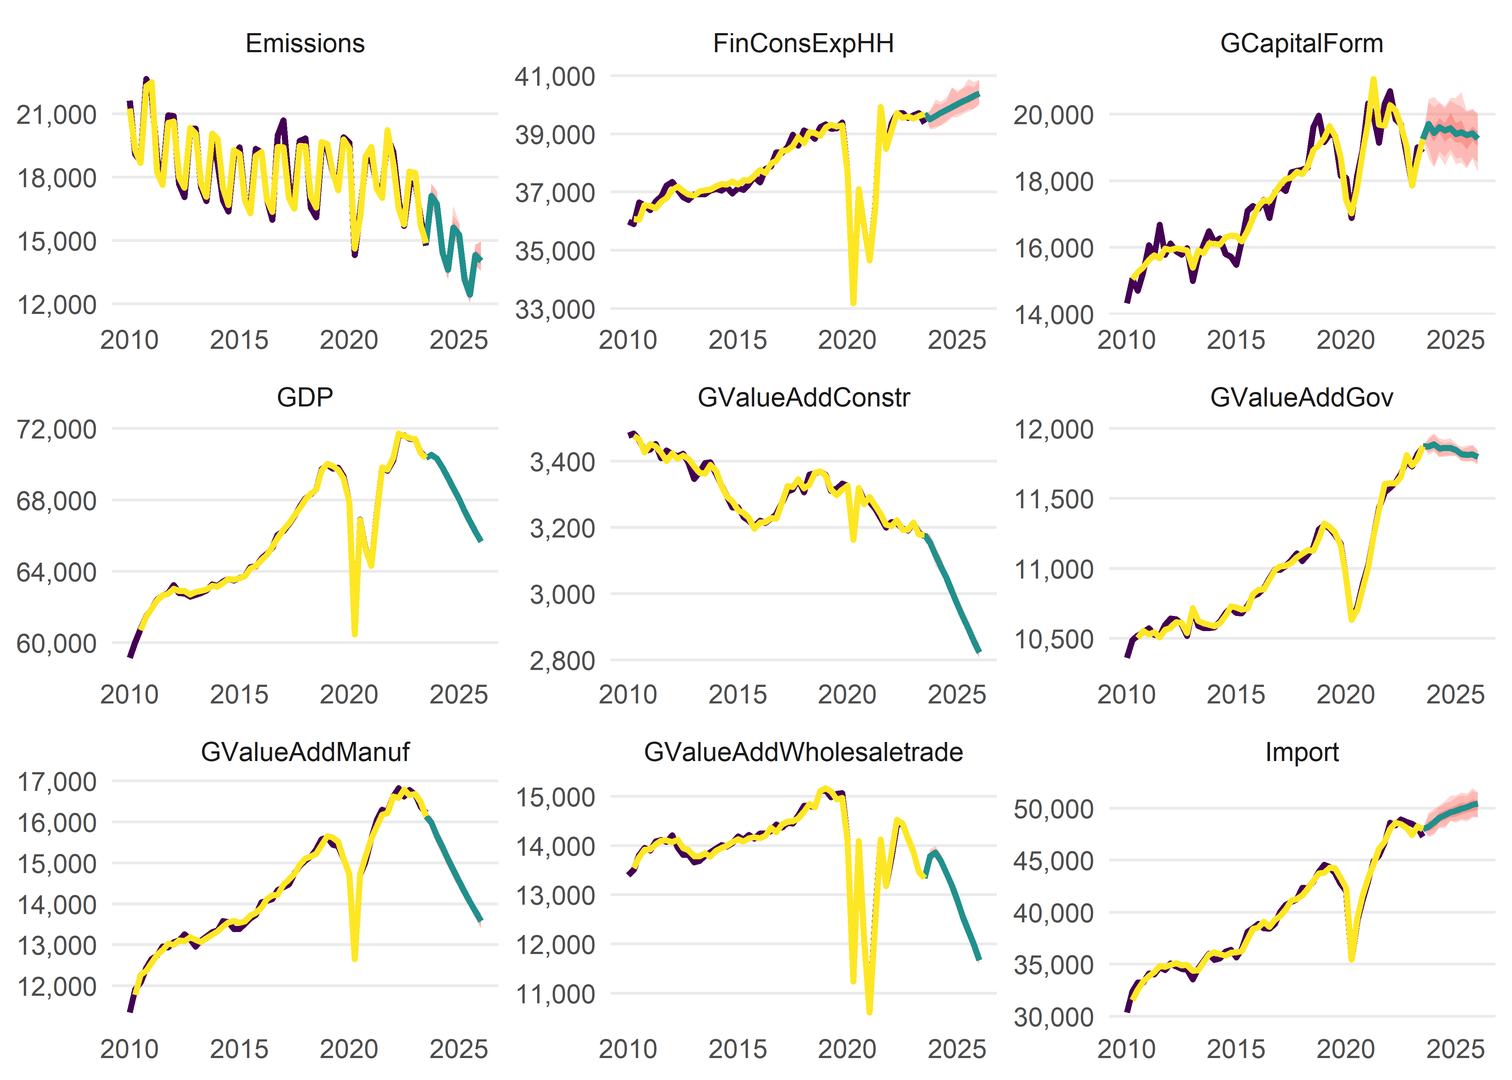
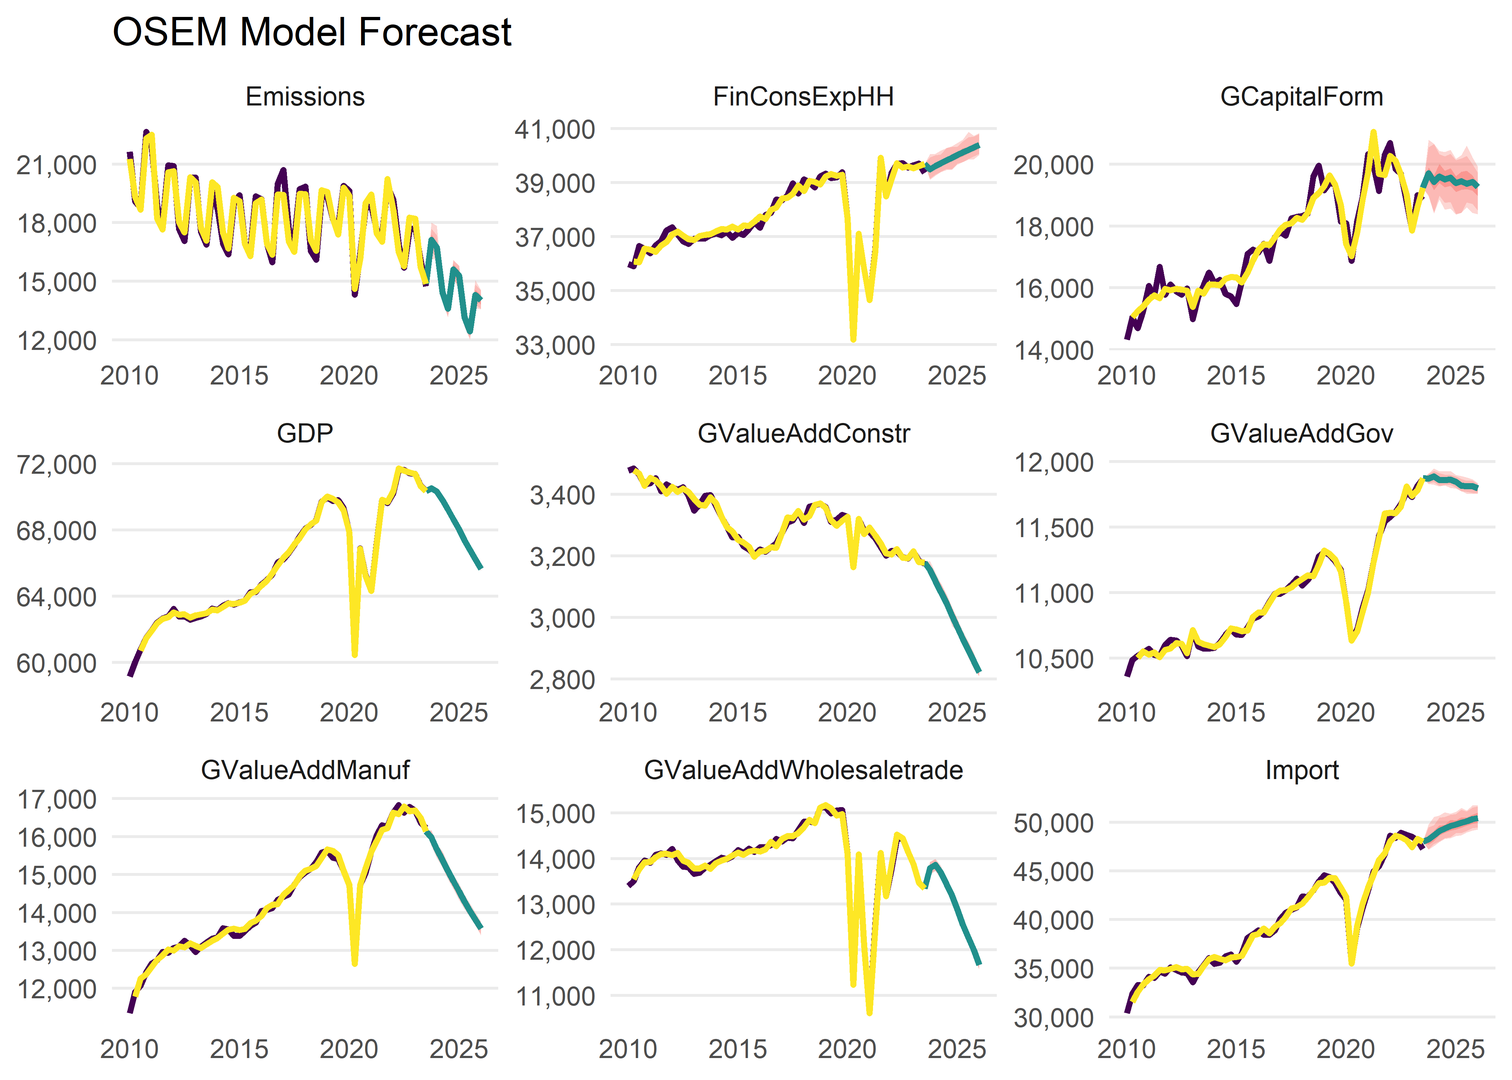
Consequences of major change (tests and vignettes)

diff --git a/README.md b/README.md
@@ -552,18 +552,24 @@ model_result <- run_model(
   save_to_disk = "inst/extdata/InputData.xlsx",
   primary_source = "download",
   trend = TRUE,
-  saturation.tpval = 0.01
+  saturation.tpval = 0.01,
+  plot = FALSE
 )
-#> indexed 0B in  0s, 0B/sindexed 23.07MB in  0s, 115.12MB/sindexed 23.20MB in  0s, 114.89MB/sindexed 23.33MB in  0s, 114.73MB/sindexed 23.46MB in  0s, 114.76MB/sindexed 23.59MB in  0s, 114.70MB/sindexed 23.72MB in  0s, 114.74MB/sindexed 23.85MB in  0s, 114.62MB/sindexed 23.99MB in  0s, 114.64MB/sindexed 24.12MB in  0s, 114.68MB/sindexed 24.25MB in  0s, 114.79MB/sindexed 24.38MB in  0s, 114.71MB/sindexed 24.51MB in  0s, 114.58MB/sindexed 24.64MB in  0s, 114.58MB/sindexed 24.77MB in  0s, 114.59MB/sindexed 24.90MB in  0s, 114.49MB/sindexed 25.03MB in  0s, 113.89MB/sindexed 25.17MB in  0s, 113.84MB/sindexed 25.30MB in  0s, 113.71MB/sindexed 25.43MB in  0s, 113.56MB/sindexed 25.56MB in  0s, 113.48MB/sindexed 25.69MB in  0s, 113.36MB/sindexed 25.82MB in  0s, 113.26MB/sindexed 25.95MB in  0s, 113.13MB/sindexed 26.08MB in  0s, 112.99MB/sindexed 26.21MB in  0s, 112.82MB/sindexed 26.35MB in  0s, 112.70MB/sindexed 26.48MB in  0s, 112.36MB/sindexed 26.61MB in  0s, 108.20MB/sindexed 26.74MB in  0s, 108.09MB/sindexed 26.87MB in  0s, 108.04MB/sindexed 27.00MB in  0s, 107.90MB/sindexed 27.13MB in  0s, 107.45MB/sindexed 27.26MB in  0s, 107.27MB/sindexed 27.39MB in  0s, 107.16MB/sindexed 27.52MB in  0s, 107.12MB/sindexed 27.66MB in  0s, 107.07MB/sindexed 27.79MB in  0s, 107.02MB/sindexed 27.92MB in  0s, 106.98MB/sindexed 28.05MB in  0s, 106.91MB/sindexed 28.18MB in  0s, 106.86MB/sindexed 28.31MB in  0s, 106.84MB/sindexed 28.44MB in  0s, 106.80MB/sindexed 28.57MB in  0s, 106.71MB/sindexed 28.70MB in  0s, 106.49MB/sindexed 28.84MB in  0s, 106.41MB/sindexed 28.97MB in  0s, 106.32MB/sindexed 29.10MB in  0s, 106.29MB/sindexed 29.23MB in  0s, 106.24MB/sindexed 29.36MB in  0s, 106.20MB/sindexed 29.49MB in  0s, 106.16MB/sindexed 29.62MB in  0s, 106.03MB/sindexed 29.75MB in  0s, 106.08MB/sindexed 29.88MB in  0s, 106.00MB/sindexed 30.02MB in  0s, 105.92MB/sindexed 30.15MB in  0s, 105.74MB/sindexed 30.28MB in  0s, 105.57MB/sindexed 30.41MB in  0s, 105.51MB/sindexed 30.54MB in  0s, 105.49MB/sindexed 30.67MB in  0s, 105.41MB/sindexed 30.80MB in  0s, 105.44MB/sindexed 30.93MB in  0s, 105.34MB/sindexed 31.06MB in  0s, 105.32MB/sindexed 31.19MB in  0s, 105.31MB/sindexed 31.33MB in  0s, 105.30MB/sindexed 31.46MB in  0s, 105.25MB/sindexed 31.59MB in  0s, 105.25MB/sindexed 31.72MB in  0s, 105.25MB/sindexed 31.85MB in  0s, 105.06MB/sindexed 31.98MB in  0s, 105.07MB/sindexed 32.11MB in  0s, 105.08MB/sindexed 32.24MB in  0s, 105.08MB/sindexed 32.37MB in  0s, 105.10MB/sindexed 32.51MB in  0s, 105.09MB/sindexed 32.64MB in  0s, 105.08MB/sindexed 32.77MB in  0s, 105.10MB/sindexed 32.90MB in  0s, 105.10MB/sindexed 33.03MB in  0s, 105.14MB/sindexed 33.16MB in  0s, 105.05MB/sindexed 33.29MB in  0s, 105.01MB/sindexed 33.42MB in  0s, 104.97MB/sindexed 33.55MB in  0s, 104.89MB/sindexed 33.69MB in  0s, 104.89MB/sindexed 33.82MB in  0s, 104.87MB/sindexed 33.95MB in  0s, 104.88MB/sindexed 34.08MB in  0s, 104.88MB/sindexed 34.21MB in  0s, 104.90MB/sindexed 34.34MB in  0s, 104.90MB/sindexed 34.47MB in  0s, 104.89MB/sindexed 34.60MB in  0s, 104.85MB/sindexed 34.73MB in  0s, 104.85MB/sindexed 34.86MB in  0s, 104.87MB/sindexed 35.00MB in  0s, 104.82MB/sindexed 35.13MB in  0s, 104.74MB/sindexed 35.26MB in  0s, 104.66MB/sindexed 35.39MB in  0s, 104.64MB/sindexed 35.52MB in  0s, 104.65MB/sindexed 35.65MB in  0s, 104.67MB/sindexed 35.78MB in  0s, 104.69MB/sindexed 35.91MB in  0s, 104.71MB/sindexed 36.04MB in  0s, 104.67MB/sindexed 36.18MB in  0s, 104.68MB/sindexed 36.31MB in  0s, 104.68MB/sindexed 36.44MB in  0s, 104.71MB/sindexed 36.57MB in  0s, 104.74MB/sindexed 36.70MB in  0s, 104.77MB/sindexed 36.83MB in  0s, 104.64MB/sindexed 36.96MB in  0s, 104.56MB/sindexed 37.09MB in  0s, 104.56MB/sindexed 37.22MB in  0s, 104.60MB/sindexed 37.36MB in  0s, 104.58MB/sindexed 37.49MB in  0s, 104.56MB/sindexed 37.62MB in  0s, 104.55MB/sindexed 37.75MB in  0s, 104.54MB/sindexed 37.88MB in  0s, 104.55MB/sindexed 38.01MB in  0s, 104.57MB/sindexed 38.14MB in  0s, 104.58MB/sindexed 38.27MB in  0s, 104.60MB/sindexed 38.40MB in  0s, 104.64MB/sindexed 38.53MB in  0s, 104.60MB/sindexed 38.67MB in  0s, 104.41MB/sindexed 38.80MB in  0s, 104.45MB/sindexed 38.93MB in  0s, 104.41MB/sindexed 39.06MB in  0s, 104.43MB/sindexed 39.19MB in  0s, 104.50MB/sindexed 39.32MB in  0s, 104.56MB/sindexed 39.45MB in  0s, 104.40MB/sindexed 39.58MB in  0s, 104.33MB/sindexed 39.71MB in  0s, 104.35MB/sindexed 39.85MB in  0s, 104.37MB/sindexed 39.98MB in  0s, 104.34MB/sindexed 40.11MB in  0s, 104.27MB/sindexed 40.24MB in  0s, 104.21MB/sindexed 40.37MB in  0s, 104.20MB/sindexed 40.50MB in  0s, 104.20MB/sindexed 40.63MB in  0s, 104.17MB/sindexed 40.76MB in  0s, 104.17MB/sindexed 40.89MB in  0s, 104.15MB/sindexed 41.03MB in  0s, 104.15MB/sindexed 41.16MB in  0s, 104.15MB/sindexed 41.29MB in  0s, 104.17MB/sindexed 41.42MB in  0s, 104.20MB/sindexed 41.55MB in  0s, 104.19MB/sindexed 41.68MB in  0s, 104.21MB/sindexed 41.81MB in  0s, 104.20MB/sindexed 41.94MB in  0s, 104.18MB/sindexed 42.07MB in  0s, 104.11MB/sindexed 42.20MB in  0s, 104.09MB/sindexed 42.34MB in  0s, 104.07MB/sindexed 42.47MB in  0s, 103.98MB/sindexed 42.60MB in  0s, 103.97MB/sindexed 42.73MB in  0s, 103.98MB/sindexed 42.86MB in  0s, 103.97MB/sindexed 42.99MB in  0s, 103.98MB/sindexed 43.12MB in  0s, 104.00MB/sindexed 43.25MB in  0s, 104.03MB/sindexed 43.38MB in  0s, 104.02MB/sindexed 43.52MB in  0s, 103.96MB/sindexed 43.65MB in  0s, 103.92MB/sindexed 43.78MB in  0s, 103.90MB/sindexed 43.91MB in  0s, 103.89MB/sindexed 44.04MB in  0s, 103.91MB/sindexed 44.17MB in  0s, 103.90MB/sindexed 44.30MB in  0s, 103.89MB/sindexed 44.43MB in  0s, 103.89MB/sindexed 44.56MB in  0s, 101.26MB/sindexed 44.70MB in  0s, 101.27MB/sindexed 44.83MB in  0s, 101.27MB/sindexed 44.96MB in  0s, 101.31MB/sindexed 45.09MB in  0s, 101.34MB/sindexed 45.22MB in  0s, 101.37MB/sindexed 45.35MB in  0s, 101.37MB/sindexed 45.48MB in  0s, 101.40MB/sindexed 45.61MB in  0s, 101.43MB/sindexed 45.74MB in  0s, 101.43MB/sindexed 45.87MB in  0s, 101.41MB/sindexed 46.01MB in  0s, 101.39MB/sindexed 46.14MB in  0s, 101.33MB/sindexed 46.27MB in  0s, 101.31MB/sindexed 46.40MB in  0s, 101.23MB/sindexed 46.53MB in  0s, 101.23MB/sindexed 46.66MB in  0s, 101.24MB/sindexed 46.79MB in  0s, 101.22MB/sindexed 46.92MB in  0s, 101.24MB/sindexed 47.05MB in  0s, 101.25MB/sindexed 47.19MB in  0s, 101.17MB/sindexed 47.32MB in  0s, 101.16MB/sindexed 47.45MB in  0s, 101.12MB/sindexed 47.58MB in  0s, 101.03MB/sindexed 47.71MB in  0s, 101.05MB/sindexed 47.84MB in  0s, 101.08MB/sindexed 47.97MB in  0s, 101.09MB/sindexed 48.10MB in  0s, 101.10MB/sindexed 48.23MB in  0s, 101.11MB/sindexed 48.37MB in  0s, 101.13MB/sindexed 48.50MB in  0s, 101.14MB/sindexed 48.63MB in  0s, 101.16MB/sindexed 48.76MB in  0s, 101.18MB/sindexed 48.89MB in  0s, 101.21MB/sindexed 49.02MB in  0s, 101.19MB/sindexed 49.15MB in  0s, 101.14MB/sindexed 49.28MB in  0s, 101.10MB/sindexed 49.41MB in  0s, 101.02MB/sindexed 49.54MB in  0s, 100.99MB/sindexed 49.68MB in  0s, 101.00MB/sindexed 49.81MB in  0s, 101.00MB/sindexed 49.94MB in  0s, 100.97MB/sindexed 50.07MB in  0s, 100.95MB/sindexed 50.20MB in  0s, 100.94MB/sindexed 50.33MB in  0s, 100.91MB/sindexed 50.46MB in  1s, 100.90MB/sindexed 50.59MB in  1s, 100.83MB/sindexed 50.72MB in  1s, 100.79MB/sindexed 50.86MB in  1s, 100.76MB/sindexed 50.99MB in  1s, 100.78MB/s                                                                              indexed 51.12MB in  1s, 97.02MB/sindexed 51.25MB in  1s, 97.04MB/sindexed 51.38MB in  1s, 97.08MB/sindexed 51.51MB in  1s, 97.11MB/sindexed 51.64MB in  1s, 97.12MB/sindexed 51.77MB in  1s, 97.13MB/sindexed 51.90MB in  1s, 97.10MB/sindexed 52.04MB in  1s, 97.08MB/sindexed 52.17MB in  1s, 97.08MB/sindexed 52.30MB in  1s, 97.11MB/sindexed 52.43MB in  1s, 97.12MB/sindexed 52.56MB in  1s, 97.16MB/sindexed 52.69MB in  1s, 97.17MB/sindexed 52.82MB in  1s, 97.23MB/sindexed 52.95MB in  1s, 97.22MB/sindexed 53.08MB in  1s, 97.25MB/sindexed 53.21MB in  1s, 97.28MB/sindexed 53.35MB in  1s, 97.32MB/sindexed 53.48MB in  1s, 97.42MB/sindexed 53.61MB in  1s, 97.50MB/sindexed 53.74MB in  1s, 97.60MB/sindexed 53.87MB in  1s, 97.62MB/sindexed 54.00MB in  1s, 97.65MB/sindexed 54.13MB in  1s, 97.71MB/sindexed 54.26MB in  1s, 97.81MB/sindexed 54.39MB in  1s, 97.90MB/sindexed 54.53MB in  1s, 98.00MB/sindexed 54.66MB in  1s, 98.10MB/sindexed 54.79MB in  1s, 98.19MB/sindexed 54.92MB in  1s, 98.29MB/sindexed 55.05MB in  1s, 98.39MB/sindexed 55.18MB in  1s, 98.49MB/sindexed 55.31MB in  1s, 98.59MB/sindexed 55.44MB in  1s, 98.68MB/sindexed 55.57MB in  1s, 98.77MB/sindexed 55.71MB in  1s, 98.84MB/sindexed 55.84MB in  1s, 98.85MB/sindexed 55.97MB in  1s, 98.84MB/sindexed 56.10MB in  1s, 98.84MB/sindexed 56.23MB in  1s, 98.85MB/sindexed 56.36MB in  1s, 98.80MB/sindexed 56.49MB in  1s, 98.81MB/sindexed 56.62MB in  1s, 98.80MB/sindexed 56.75MB in  1s, 98.80MB/sindexed 56.88MB in  1s, 98.79MB/sindexed 57.02MB in  1s, 98.78MB/sindexed 57.15MB in  1s, 98.75MB/sindexed 57.28MB in  1s, 98.71MB/sindexed 57.41MB in  1s, 98.65MB/sindexed 57.54MB in  1s, 98.55MB/sindexed 57.67MB in  1s, 98.47MB/sindexed 57.80MB in  1s, 98.36MB/sindexed 57.93MB in  1s, 98.28MB/sindexed 58.06MB in  1s, 98.19MB/sindexed 58.20MB in  1s, 98.14MB/sindexed 58.33MB in  1s, 98.11MB/sindexed 58.46MB in  1s, 98.10MB/sindexed 58.59MB in  1s, 98.09MB/sindexed 58.72MB in  1s, 98.09MB/sindexed 58.85MB in  1s, 98.08MB/sindexed 58.98MB in  1s, 97.98MB/sindexed 59.11MB in  1s, 97.86MB/sindexed 59.24MB in  1s, 97.85MB/sindexed 59.38MB in  1s, 97.85MB/sindexed 59.51MB in  1s, 97.85MB/sindexed 59.64MB in  1s, 97.81MB/sindexed 59.77MB in  1s, 97.74MB/sindexed 59.90MB in  1s, 97.68MB/sindexed 60.03MB in  1s, 97.62MB/sindexed 60.16MB in  1s, 97.59MB/sindexed 60.29MB in  1s, 97.55MB/sindexed 60.42MB in  1s, 97.46MB/sindexed 60.55MB in  1s, 97.36MB/sindexed 60.69MB in  1s, 97.39MB/sindexed 60.82MB in  1s, 97.44MB/sindexed 60.95MB in  1s, 97.43MB/sindexed 61.08MB in  1s, 97.40MB/sindexed 61.21MB in  1s, 97.40MB/sindexed 61.34MB in  1s, 97.40MB/sindexed 61.47MB in  1s, 97.39MB/sindexed 61.60MB in  1s, 97.35MB/sindexed 61.73MB in  1s, 97.33MB/sindexed 61.87MB in  1s, 97.30MB/sindexed 62.00MB in  1s, 97.27MB/sindexed 62.13MB in  1s, 97.26MB/sindexed 62.26MB in  1s, 97.26MB/sindexed 62.39MB in  1s, 97.23MB/sindexed 62.52MB in  1s, 97.25MB/sindexed 62.65MB in  1s, 97.26MB/sindexed 62.78MB in  1s, 97.27MB/sindexed 62.91MB in  1s, 97.28MB/sindexed 63.05MB in  1s, 97.28MB/sindexed 63.18MB in  1s, 97.30MB/sindexed 63.31MB in  1s, 97.32MB/sindexed 63.44MB in  1s, 97.29MB/sindexed 63.57MB in  1s, 97.26MB/sindexed 63.70MB in  1s, 97.27MB/sindexed 63.83MB in  1s, 97.25MB/sindexed 63.96MB in  1s, 97.21MB/sindexed 64.09MB in  1s, 97.20MB/sindexed 64.22MB in  1s, 97.20MB/sindexed 64.36MB in  1s, 97.21MB/sindexed 64.49MB in  1s, 97.21MB/sindexed 64.62MB in  1s, 97.22MB/sindexed 64.75MB in  1s, 97.20MB/sindexed 64.88MB in  1s, 97.05MB/sindexed 65.01MB in  1s, 97.04MB/sindexed 65.14MB in  1s, 97.01MB/sindexed 65.27MB in  1s, 97.01MB/sindexed 65.40MB in  1s, 97.02MB/sindexed 65.54MB in  1s, 97.06MB/sindexed 65.59MB in  1s, 96.99MB/s                                                                              indexed 2.15GB in  1s, 2.15GB/s                                                                              
-#> Table namq_10_gdp cached at C:\Users\morit\AppData\Local\Temp\RtmpGqc9ld/eurostat/c567619dc239cdb6c8552d73b75636ff.rds
-#> indexed 0B in  0s, 0B/sindexed 2.15GB in  0s, 2.15GB/s                                                                              
-#> Table env_ac_aigg_q cached at C:\Users\morit\AppData\Local\Temp\RtmpGqc9ld/eurostat/5f7391f64512e2bcd91dad03fece5d6c.rds
-#> indexed 0B in  0s, 0B/sindexed 2.15GB in  0s, 2.15GB/s                                                                              
-#> Table ei_lmlc_q cached at C:\Users\morit\AppData\Local\Temp\RtmpGqc9ld/eurostat/48c9e378cb4ff9a025f07c2a3c1c802b.rds
-#> indexed 0B in  0s, 0B/sindexed 24.51MB in  0s, 121.93MB/sindexed 24.64MB in  0s, 121.94MB/sindexed 24.77MB in  0s, 121.74MB/sindexed 24.90MB in  0s, 121.67MB/sindexed 25.03MB in  0s, 121.58MB/sindexed 25.17MB in  0s, 115.42MB/sindexed 25.30MB in  0s, 115.22MB/sindexed 25.43MB in  0s, 115.00MB/sindexed 25.56MB in  0s, 114.91MB/sindexed 25.69MB in  0s, 114.90MB/sindexed 25.82MB in  0s, 114.87MB/sindexed 25.95MB in  0s, 114.65MB/sindexed 26.08MB in  0s, 114.65MB/sindexed 26.21MB in  0s, 114.70MB/sindexed 26.35MB in  0s, 114.50MB/sindexed 26.48MB in  0s, 114.44MB/sindexed 26.61MB in  0s, 114.40MB/sindexed 26.74MB in  0s, 114.42MB/sindexed 26.87MB in  0s, 114.29MB/sindexed 27.00MB in  0s, 114.25MB/sindexed 27.13MB in  0s, 114.16MB/sindexed 27.26MB in  0s, 114.06MB/sindexed 27.39MB in  0s, 113.99MB/sindexed 27.52MB in  0s, 114.02MB/sindexed 27.66MB in  0s, 113.78MB/sindexed 27.79MB in  0s, 113.52MB/sindexed 27.92MB in  0s, 113.35MB/sindexed 28.05MB in  0s, 113.32MB/sindexed 28.18MB in  0s, 113.24MB/sindexed 28.31MB in  0s, 113.05MB/sindexed 28.44MB in  0s, 112.77MB/sindexed 28.57MB in  0s, 112.88MB/sindexed 28.70MB in  0s, 112.63MB/sindexed 28.84MB in  0s, 112.67MB/sindexed 28.97MB in  0s, 112.64MB/sindexed 29.10MB in  0s, 112.61MB/sindexed 29.23MB in  0s, 112.59MB/sindexed 29.36MB in  0s, 112.59MB/sindexed 29.49MB in  0s, 112.57MB/sindexed 29.62MB in  0s, 112.52MB/sindexed 29.75MB in  0s, 112.35MB/sindexed 29.88MB in  0s, 112.08MB/sindexed 30.02MB in  0s, 111.88MB/sindexed 30.15MB in  0s, 111.65MB/sindexed 30.28MB in  0s, 111.48MB/sindexed 30.41MB in  0s, 111.29MB/sindexed 30.54MB in  0s, 111.04MB/sindexed 30.67MB in  0s, 110.70MB/sindexed 30.80MB in  0s, 110.52MB/sindexed 30.93MB in  0s, 110.28MB/sindexed 31.06MB in  0s, 110.23MB/sindexed 31.19MB in  0s, 110.23MB/sindexed 31.33MB in  0s, 110.15MB/sindexed 31.46MB in  0s, 109.93MB/sindexed 31.59MB in  0s, 109.87MB/sindexed 31.72MB in  0s, 109.82MB/sindexed 31.85MB in  0s, 109.70MB/sindexed 31.98MB in  0s, 109.60MB/sindexed 32.11MB in  0s, 109.51MB/sindexed 32.24MB in  0s, 109.47MB/sindexed 32.37MB in  0s, 109.44MB/sindexed 32.51MB in  0s, 109.21MB/sindexed 32.64MB in  0s, 109.08MB/sindexed 32.77MB in  0s, 108.90MB/sindexed 32.90MB in  0s, 108.73MB/sindexed 33.03MB in  0s, 108.65MB/sindexed 33.16MB in  0s, 108.31MB/sindexed 33.29MB in  0s, 108.15MB/sindexed 33.42MB in  0s, 108.02MB/sindexed 33.55MB in  0s, 107.86MB/sindexed 33.69MB in  0s, 107.59MB/sindexed 33.82MB in  0s, 107.40MB/sindexed 33.95MB in  0s, 107.41MB/sindexed 34.08MB in  0s, 107.28MB/sindexed 34.21MB in  0s, 107.26MB/sindexed 34.34MB in  0s, 107.25MB/sindexed 34.47MB in  0s, 107.25MB/sindexed 34.60MB in  0s, 107.24MB/sindexed 34.73MB in  0s, 107.22MB/sindexed 34.86MB in  0s, 107.20MB/sindexed 35.00MB in  0s, 107.15MB/sindexed 35.13MB in  0s, 107.09MB/sindexed 35.26MB in  0s, 107.03MB/sindexed 35.39MB in  0s, 107.02MB/sindexed 35.52MB in  0s, 107.04MB/sindexed 35.65MB in  0s, 107.06MB/sindexed 35.78MB in  0s, 107.14MB/sindexed 35.91MB in  0s, 107.14MB/sindexed 36.04MB in  0s, 107.14MB/sindexed 36.18MB in  0s, 107.18MB/sindexed 36.31MB in  0s, 107.19MB/sindexed 36.44MB in  0s, 107.22MB/sindexed 36.57MB in  0s, 107.23MB/sindexed 36.70MB in  0s, 107.25MB/sindexed 36.83MB in  0s, 107.20MB/sindexed 36.96MB in  0s, 107.20MB/sindexed 37.09MB in  0s, 107.18MB/sindexed 37.22MB in  0s, 107.17MB/sindexed 37.36MB in  0s, 107.18MB/sindexed 37.49MB in  0s, 107.25MB/sindexed 37.62MB in  0s, 107.27MB/sindexed 37.75MB in  0s, 107.30MB/sindexed 37.88MB in  0s, 107.35MB/sindexed 38.01MB in  0s, 107.36MB/sindexed 38.14MB in  0s, 107.37MB/sindexed 38.27MB in  0s, 107.40MB/sindexed 38.40MB in  0s, 107.41MB/sindexed 38.53MB in  0s, 107.33MB/sindexed 38.67MB in  0s, 107.33MB/sindexed 38.80MB in  0s, 107.26MB/sindexed 38.93MB in  0s, 107.22MB/sindexed 39.06MB in  0s, 107.17MB/sindexed 39.19MB in  0s, 107.18MB/sindexed 39.32MB in  0s, 107.19MB/sindexed 39.45MB in  0s, 107.21MB/sindexed 39.58MB in  0s, 107.23MB/sindexed 39.71MB in  0s, 107.25MB/sindexed 39.85MB in  0s, 107.26MB/sindexed 39.98MB in  0s, 107.28MB/sindexed 40.11MB in  0s, 107.30MB/sindexed 40.24MB in  0s, 107.22MB/sindexed 40.37MB in  0s, 107.18MB/sindexed 40.50MB in  0s, 107.03MB/sindexed 40.63MB in  0s, 107.04MB/sindexed 40.76MB in  0s, 107.06MB/sindexed 40.89MB in  0s, 107.08MB/sindexed 41.03MB in  0s, 107.08MB/sindexed 41.16MB in  0s, 107.03MB/sindexed 41.29MB in  0s, 107.00MB/sindexed 41.42MB in  0s, 106.99MB/sindexed 41.55MB in  0s, 107.00MB/sindexed 41.68MB in  0s, 107.01MB/sindexed 41.81MB in  0s, 107.04MB/sindexed 41.94MB in  0s, 107.05MB/sindexed 42.07MB in  0s, 107.02MB/sindexed 42.20MB in  0s, 107.06MB/sindexed 42.34MB in  0s, 107.04MB/sindexed 42.47MB in  0s, 107.05MB/sindexed 42.60MB in  0s, 107.09MB/sindexed 42.73MB in  0s, 107.13MB/sindexed 42.86MB in  0s, 107.18MB/sindexed 42.99MB in  0s, 107.19MB/sindexed 43.12MB in  0s, 107.21MB/sindexed 43.25MB in  0s, 107.20MB/sindexed 43.38MB in  0s, 107.16MB/sindexed 43.52MB in  0s, 107.10MB/sindexed 43.65MB in  0s, 107.08MB/sindexed 43.78MB in  0s, 107.00MB/sindexed 43.91MB in  0s, 106.93MB/sindexed 44.04MB in  0s, 106.90MB/sindexed 44.17MB in  0s, 106.96MB/sindexed 44.30MB in  0s, 107.01MB/sindexed 44.43MB in  0s, 107.08MB/sindexed 44.56MB in  0s, 107.14MB/sindexed 44.70MB in  0s, 107.20MB/sindexed 44.83MB in  0s, 107.27MB/sindexed 44.96MB in  0s, 107.34MB/sindexed 45.09MB in  0s, 107.40MB/sindexed 45.22MB in  0s, 107.44MB/sindexed 45.35MB in  0s, 107.47MB/sindexed 45.48MB in  0s, 107.56MB/sindexed 45.61MB in  0s, 107.63MB/sindexed 45.74MB in  0s, 107.71MB/sindexed 45.87MB in  0s, 107.68MB/sindexed 46.01MB in  0s, 107.72MB/sindexed 46.14MB in  0s, 107.75MB/sindexed 46.27MB in  0s, 107.78MB/sindexed 46.40MB in  0s, 107.80MB/sindexed 46.53MB in  0s, 107.83MB/sindexed 46.66MB in  0s, 107.86MB/sindexed 46.79MB in  0s, 107.88MB/sindexed 46.92MB in  0s, 107.87MB/sindexed 47.05MB in  0s, 107.77MB/sindexed 47.19MB in  0s, 107.76MB/sindexed 47.32MB in  0s, 107.76MB/sindexed 47.45MB in  0s, 103.74MB/sindexed 47.58MB in  0s, 103.74MB/sindexed 47.65MB in  0s, 103.64MB/s                                                                              indexed 2.15GB in  0s, 2.15GB/s                                                                              
-#> Table namq_10_a10 cached at C:\Users\morit\AppData\Local\Temp\RtmpGqc9ld/eurostat/a48b692dcc3fb2781f39b235c4498221.rds
-#> indexed 0B in  0s, 0B/sindexed 2.15GB in  0s, 2.15GB/s                                                                              
-#> Table sts_cobp_q cached at C:\Users\morit\AppData\Local\Temp\RtmpGqc9ld/eurostat/747ede24fdec507eceea0e73e631fc53.rds
+#> Dataset query already saved in cache_list.json...
+#> Reading cache file C:\Users\morit\AppData\Local\Temp\RtmpOUIr06/eurostat/c567619dc239cdb6c8552d73b75636ff.rds
+#> Table  namq_10_gdp  read from cache file:  C:\Users\morit\AppData\Local\Temp\RtmpOUIr06/eurostat/c567619dc239cdb6c8552d73b75636ff.rds
+#> Dataset query already saved in cache_list.json...
+#> Reading cache file C:\Users\morit\AppData\Local\Temp\RtmpOUIr06/eurostat/5f7391f64512e2bcd91dad03fece5d6c.rds
+#> Table  env_ac_aigg_q  read from cache file:  C:\Users\morit\AppData\Local\Temp\RtmpOUIr06/eurostat/5f7391f64512e2bcd91dad03fece5d6c.rds
+#> Dataset query already saved in cache_list.json...
+#> Reading cache file C:\Users\morit\AppData\Local\Temp\RtmpOUIr06/eurostat/48c9e378cb4ff9a025f07c2a3c1c802b.rds
+#> Table  ei_lmlc_q  read from cache file:  C:\Users\morit\AppData\Local\Temp\RtmpOUIr06/eurostat/48c9e378cb4ff9a025f07c2a3c1c802b.rds
+#> Dataset query already saved in cache_list.json...
+#> Reading cache file C:\Users\morit\AppData\Local\Temp\RtmpOUIr06/eurostat/a48b692dcc3fb2781f39b235c4498221.rds
+#> Table  namq_10_a10  read from cache file:  C:\Users\morit\AppData\Local\Temp\RtmpOUIr06/eurostat/a48b692dcc3fb2781f39b235c4498221.rds
+#> Dataset query already saved in cache_list.json...
+#> Reading cache file C:\Users\morit\AppData\Local\Temp\RtmpOUIr06/eurostat/747ede24fdec507eceea0e73e631fc53.rds
+#> Table  sts_cobp_q  read from cache file:  C:\Users\morit\AppData\Local\Temp\RtmpOUIr06/eurostat/747ede24fdec507eceea0e73e631fc53.rds
 #> Warning in load_or_download_variables(specification = module_order, dictionary
 #> = dictionary, : Unbalanced panel, will lose more than 20\% of data when making
 #> balanced
@@ -574,11 +580,56 @@ model_result <- run_model(
 #> Estimating GValueAddConstr = LabCostConstr + BuildingPermits 
 #> Estimating GValueAddWholesaletrade = Export + LabCostService 
 #> Estimating FinConsExpHH =  
+#> No Outliers or Step-Shifts detected in the marginal equations to test for Super Exogeneity in ln.FinConsExpHH.
+#> Hence not possible to run the test.
 #> Constructing GDP = GValueAddGov + GValueAddAgri + GValueAddIndus + GValueAddConstr + GValueAddWholesaletrade + GValueAddInfocom + GValueAddFinance + GValueAddRealest + GValueAddResearch + GValueAddArts 
 #> Estimating GCapitalForm = FinConsExpGov + FinConsExpHH 
 #> Estimating Emissions = GDP + Export + GValueAddIndus 
 #> Estimating Import = FinConsExpHH + GCapitalForm
 ```
+
+``` r
+model_result
+#> OSEM Model Output
+#> -----------------------
+#> 
+#> Estimation Options:
+#> Sample: 2010-01-01 to 2023-07-01
+#> Max AR Considered: 4
+#> Estimation Option: ardl
+#> 
+#> Relationships considered: 
+#> # A tibble: 9 × 3
+#>   Model `Dep. Var.`             `Ind. Var`                                      
+#> 1     1 Import                  "FinConsExpHH + GCapitalForm"                   
+#> 2     2 FinConsExpHH            ""                                              
+#> 3     3 GCapitalForm            "FinConsExpGov + FinConsExpHH"                  
+#> 4     4 Emissions               "GDP + Export + GValueAddIndus"                 
+#> 5     5 GDP                     "GValueAddGov + GValueAddAgri + GValueAddIndus …
+#> 6     6 GValueAddGov            "FinConsExpGov"                                 
+#> 7     7 GValueAddManuf          "Export + LabCostManuf"                         
+#> 8     8 GValueAddConstr         "LabCostConstr + BuildingPermits"               
+#> 9     9 GValueAddWholesaletrade "Export + LabCostService"                       
+#> 
+#> 
+#> Relationships estimated in the order:  6,7,8,9,2,5,3,4,1
+#> 
+#> Diagnostics:
+#>  # A tibble: 8 × 8
+#>   `Dependent Variable`    AR       ARCH     `Super Exogeneity`   IIS   SIS     n
+#>   <chr>                   <chr>    <chr>    <chr>              <int> <int> <int>
+#> 1 GValueAddGov            0.125    0.768    "0.029**"              3     3    53
+#> 2 GValueAddManuf          0.663    0.864    ""                     6     0    54
+#> 3 GValueAddConstr         0.619    0.541    "<0.001***"            3     2    54
+#> 4 GValueAddWholesaletrade 0.258    0.001*** "<0.001***"           13     0    54
+#> 5 FinConsExpHH            0.870    0.711    ""                     7     1    54
+#> 6 GCapitalForm            0.602    0.851    ""                     0     5    54
+#> 7 Emissions               0.009*** 0.070*   "0.007***"             0     3    55
+#> 8 Import                  0.106    0.958    "0.092*"               1     1    54
+#> # ℹ 1 more variable: `Share of Indicators` <dbl>
+```
+
+<img src="man/figures/README-unnamed-chunk-7-1.png" width="100%" />
 
 The first time that we run this, all data will be downloaded and saved
 in the folder `data/use/InputData.xlsx`.
@@ -602,7 +653,7 @@ Now that we have run the model, we can forecast the model (here using an
 AR process for the exogenous values and for 10 time periods):
 
 ``` r
-model_forecast <- forecast_model(model_result, n.ahead = 10, exog_fill_method = "AR", plot.forecast = FALSE)
+model_forecast <- forecast_model(model_result, n.ahead = 10, exog_fill_method = "AR", plot = FALSE)
 #> No exogenous values provided. Model will forecast the exogenous values with an AR4 process (incl. Q dummies, IIS and SIS w 't.pval = 0.001').
 #> Alternative is exog_fill_method = 'last'.
 ```
@@ -613,4 +664,4 @@ Once we are done, we can plot the forecast:
 plot(model_forecast, order.as.run = TRUE)
 ```
 
-<img src="man/figures/README-unnamed-chunk-9-1.png" width="100%" />
+<img src="man/figures/README-unnamed-chunk-10-1.png" width="100%" />
